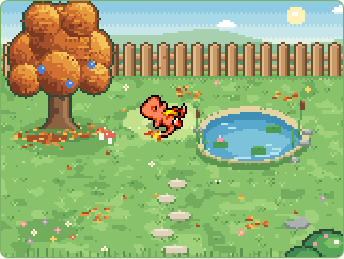
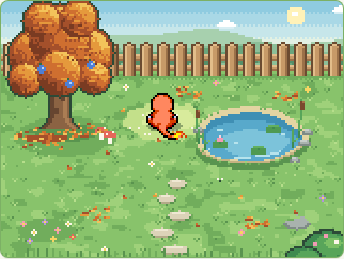
fix: smooth night sky tint and scatter pond glints (v0.6.2)
The dawn/dusk/night sky deepening was a flat band whose edge cut straight across the tree canopy; it now fades row by row. Pond shimmer glints and the moon reflection no longer line up into a stack of bars.

diff --git a/desktop/plugin.js b/desktop/plugin.js
@@ -1,4 +1,4 @@
-// Hermes Pokémon v0.6.1 — bundled sprites: CHUNSOFT and SpriteCollab contributors. See CREDITS.md.
+// Hermes Pokémon v0.6.2 — bundled sprites: CHUNSOFT and SpriteCollab contributors. See CREDITS.md.
 
 // src/plugin.jsx
 import * as sdk from "@hermes/plugin-sdk";
@@ -2230,6 +2230,8 @@ function drawForeground() {
 }
 
 // src/ambient.js
+var inPondPoint = (x, y) => ((x - POND.x) / (POND.rx - 3)) ** 2 + ((y - POND.y) / (POND.ry - 2)) ** 2 <= 1;
+var GLINTS = [[-14, -3, 3, 1.7], [-6, 3, 2, 2.3], [3, -5, 3, 1.4], [10, 2, 2, 2], [-1, 6, 2, 1.1], [14, -1, 2, 2.6]];
 function phaseForHour(hour) {
   if (hour >= 5 && hour < 8) return "dawn";
   if (hour >= 8 && hour < 18) return "day";
@@ -2492,11 +2494,11 @@ var Ambient = class {
         })
       );
     }
-    for (let i = 0; i < 6; i++) {
-      const k = (t * 0.6 + i * 0.37) % 1;
-      const x = Math.round(POND.x - 16 + i * 11 % 30 + k * 4), y = POND.y - 6 + i * 5 % 13;
-      if (Math.sin(t * 2 + i * 1.9) > -0.3) rect(x, y, 3 + i % 2, 1, P.water3);
-    }
+    GLINTS.forEach(([dx, dy, w, speed], i) => {
+      if (Math.sin(t * speed + i * 2.4) < 0.15) return;
+      const x = Math.round(POND.x + dx + Math.sin(t * 0.5 + i) * 1.5), y = POND.y + dy;
+      if (inPondPoint(x, y) && inPondPoint(x + w - 1, y)) rect(x, y, w, 1, P.water3);
+    });
     for (const ripple of this.ripples) {
       if (ripple.age < 0) continue;
       const k = reduced ? 0.5 : ripple.age / 1.6, rx = 2 + k * (ripple.big ? 10 : 6), ry = rx * 0.4;
@@ -2685,8 +2687,14 @@ var Ambient = class {
       rect(131, 3, 5, 9, "#f4f1d8");
       rect(132, 5, 2, 2, "#dcd8bd");
       rect(134, 8, 1, 1, "#dcd8bd");
-      c.globalAlpha = 0.6;
-      for (let i = 0; i < 4; i++) rect(POND.x + 6 - i, POND.y - 4 + i * 2, 4 + i * 2 - (i > 1 ? 4 : 0), 1, "#f4f1d8");
+      const widths = [4, 3, 5, 2, 3, 1];
+      widths.forEach((w, i) => {
+        const y = POND.y - 6 + i * 2;
+        const x = Math.round(129 - w / 2 + (reduced ? 0 : Math.sin(t * 1.3 + i * 1.7) * 0.8));
+        if (!inPondPoint(x, y) || !inPondPoint(x + w - 1, y)) return;
+        c.globalAlpha = 0.5 - i * 0.06;
+        rect(x, y, w, 1, "#f4f1d8");
+      });
       c.globalAlpha = 1;
     }
     if (!grade.glow) return;
@@ -2938,9 +2946,11 @@ function createRenderer(canvas, sprites, species, form = species, visitorSprites
       c.globalCompositeOperation = "multiply";
       c.fillStyle = grade.tint;
       c.fillRect(0, 0, WORLD.width, WORLD.height);
-      c.globalAlpha = 0.55;
       c.fillStyle = grade.sky;
-      c.fillRect(0, 0, WORLD.width, 22);
+      for (let y = 0; y < 30; y++) {
+        c.globalAlpha = 0.55 * (1 - y / 30) ** 1.5;
+        c.fillRect(0, y, WORLD.width, 1);
+      }
       c.globalAlpha = 1;
       c.globalCompositeOperation = "source-over";
     }
@@ -4079,7 +4089,7 @@ function Settings({ record, store, onClose, onChange, pet }) {
           "Pok\xE9mon \xA9 Nintendo / Creatures / GAME FREAK.",
           /* @__PURE__ */ jsx("br", {}),
           "Independent fan project \xB7 v",
-          "0.6.1"
+          "0.6.2"
         ] })
       ]
     }
@@ -4261,7 +4271,7 @@ function App({ store, ctx, bridge }) {
       ] }),
       /* @__PURE__ */ jsxs("span", { className: "hp-version", children: [
         "v",
-        "0.6.1".split(".").slice(0, 2).join(".")
+        "0.6.2".split(".").slice(0, 2).join(".")
       ] })
     ] }),
     /* @__PURE__ */ jsxs("div", { className: "hp-scroll", children: [
@@ -4310,7 +4320,7 @@ var plugin_default = {
   defaultEnabled: true,
   register(ctx) {
     const style = document.createElement("style");
-    style.dataset.hermesPokemon = "0.6.1";
+    style.dataset.hermesPokemon = "0.6.2";
     style.textContent = styles_default;
     document.head.append(style);
     ctx.onDispose(() => style.remove());

diff --git a/src/ambient.js b/src/ambient.js
@@ -4,6 +4,8 @@ import { POND, TREE, SUN_PATCH } from "./world.js";
 // Living garden: everything that moves but isn't the Pokémon. Visual only — it never
 // influences behavior. Also owns short-lived particles requested by behavior events.
 
+const inPondPoint = (x, y) => ((x - POND.x) / (POND.rx - 3)) ** 2 + ((y - POND.y) / (POND.ry - 2)) ** 2 <= 1;
+const GLINTS = [[-14, -3, 3, 1.7], [-6, 3, 2, 2.3], [3, -5, 3, 1.4], [10, 2, 2, 2.0], [-1, 6, 2, 1.1], [14, -1, 2, 2.6]];
 export const PHASES = ["dawn", "day", "dusk", "night"];
 export function phaseForHour(hour) {
   if (hour >= 5 && hour < 8) return "dawn";
@@ -277,13 +279,13 @@ export class Ambient {
         }),
       );
     }
-    // Water shimmer: short highlights that slide and blink.
-    for (let i = 0; i < 6; i++) {
-      const k = (t * 0.6 + i * 0.37) % 1;
-      const x = Math.round(POND.x - 16 + ((i * 11) % 30) + k * 4),
-        y = POND.y - 6 + ((i * 5) % 13);
-      if (Math.sin(t * 2 + i * 1.9) > -0.3) rect(x, y, 3 + (i % 2), 1, P.water3);
-    }
+    // Water shimmer: a few short glints scattered across the water (deliberately not in a line),
+    // each drifting a little and blinking on its own rhythm.
+    GLINTS.forEach(([dx, dy, w, speed], i) => {
+      if (Math.sin(t * speed + i * 2.4) < 0.15) return;
+      const x = Math.round(POND.x + dx + Math.sin(t * 0.5 + i) * 1.5), y = POND.y + dy;
+      if (inPondPoint(x, y) && inPondPoint(x + w - 1, y)) rect(x, y, w, 1, P.water3);
+    });
     for (const ripple of this.ripples) {
       if (ripple.age < 0) continue;
       const k = reduced ? 0.5 : ripple.age / 1.6,
@@ -481,8 +483,15 @@ export class Ambient {
       rect(132, 5, 2, 2, "#dcd8bd");
       rect(134, 8, 1, 1, "#dcd8bd");
       // Moon on the water.
-      c.globalAlpha = 0.6;
-      for (let i = 0; i < 4; i++) rect(POND.x + 6 - i, POND.y - 4 + i * 2, 4 + i * 2 - (i > 1 ? 4 : 0), 1, "#f4f1d8");
+      // Moon on the water: a soft column of short glints under the moon, shimmering gently.
+      const widths = [4, 3, 5, 2, 3, 1];
+      widths.forEach((w, i) => {
+        const y = POND.y - 6 + i * 2;
+        const x = Math.round(129 - w / 2 + (reduced ? 0 : Math.sin(t * 1.3 + i * 1.7) * 0.8));
+        if (!inPondPoint(x, y) || !inPondPoint(x + w - 1, y)) return;
+        c.globalAlpha = 0.5 - i * 0.06;
+        rect(x, y, w, 1, "#f4f1d8");
+      });
       c.globalAlpha = 1;
     }
     if (!grade.glow) return;

diff --git a/src/renderer.js b/src/renderer.js
@@ -225,9 +225,12 @@ export function createRenderer(canvas, sprites, species, form = species, visitor
       c.globalCompositeOperation = "multiply";
       c.fillStyle = grade.tint;
       c.fillRect(0, 0, WORLD.width, WORLD.height);
-      c.globalAlpha = 0.55;
+      // Deepen the sky, fading out row by row so there is no seam across the tree or fence.
       c.fillStyle = grade.sky;
-      c.fillRect(0, 0, WORLD.width, 22);
+      for (let y = 0; y < 30; y++) {
+        c.globalAlpha = 0.55 * (1 - y / 30) ** 1.5;
+        c.fillRect(0, y, WORLD.width, 1);
+      }
       c.globalAlpha = 1;
       c.globalCompositeOperation = "source-over";
     }

diff --git a/docs/RELEASE.md b/docs/RELEASE.md
@@ -1,4 +1,6 @@
-Hermes Pokémon v0.6.1 makes the companion react to the rhythm of your Hermes work and brings the garden to life with seasons, weather and visitors, for Hermes Desktop 0.21.5+.
+Hermes Pokémon v0.6.2 makes the companion react to the rhythm of your Hermes work and brings the garden to life with seasons, weather and visitors, for Hermes Desktop 0.21.5+.
+
+**0.6.2:** fixes two night-time visual glitches: a hard dark line across the top of the tree and sky, and the pond's moon reflection and shimmer lining up into a stack of bars.
 
 **0.6.1:** rain now comes as short showers (3 to 6 minutes, at most three a day, fading in and out) instead of all-day rain, and the companion has more varied movement: eight extra gestures from the same pinned sprite source, no back-to-back repeated routines, and varied pacing.
 
@@ -20,6 +22,6 @@ Install with `hermes plugins install sxuff/hermes-pokemon`, or extract the ZIP's
 
 The release includes a SHA256 file for the ZIP. Runtime uses bundled assets, the documented Desktop SDK and the plugin's own storage. It has no model calls, credentials, backend or runtime network requests.
 
-An independent fan project. Original code is MIT; bundled CHUNSOFT Pokémon sprites and SpriteCollab community contributions retain their respective rights and are excluded from that license. See [CREDITS.md](https://github.com/sxuff/hermes-pokemon/blob/v0.6.1/CREDITS.md). The NousResearch catalog PR remains a draft and is subject to maintainer review.
+An independent fan project. Original code is MIT; bundled CHUNSOFT Pokémon sprites and SpriteCollab community contributions retain their respective rights and are excluded from that license. See [CREDITS.md](https://github.com/sxuff/hermes-pokemon/blob/v0.6.2/CREDITS.md). The NousResearch catalog PR remains a draft and is subject to maintainer review.
 
-Executed checks and native-versus-demo limits are recorded in [docs/VERIFICATION.md](https://github.com/sxuff/hermes-pokemon/blob/v0.6.1/docs/VERIFICATION.md).
+Executed checks and native-versus-demo limits are recorded in [docs/VERIFICATION.md](https://github.com/sxuff/hermes-pokemon/blob/v0.6.2/docs/VERIFICATION.md).

diff --git a/README.md b/README.md
@@ -1,4 +1,4 @@
-# Hermes Pokémon · 0.6.1
+# Hermes Pokémon · 0.6.2
 
 A small pixel-art garden beside your Hermes conversation. Choose Bulbasaur, Charmander, or Squirtle, give it a nickname, and spend a little time together.
 
@@ -115,7 +115,7 @@ npm run demo
 
 Open [the local preview](http://127.0.0.1:4173). It loads the **actual built plugin** with a simulated SDK and explicitly labeled simulated events, including a simulated return to preview the welcome, a **Long turn** (the preview clock jumps three minutes into a running turn) and a **Failed turn**, simulated **Web search**, **Terminal** and **Writing files** tool calls, and a **Wild visitor**. Seasons and weather can be pinned from Settings. Its localStorage is separate from Hermes plugin storage. Resize the pane, dock it beneath, switch themes, hide it, or reload it. `npm run install:plugin` installs the build into your local Hermes plugin directory, backing up an existing `plugin.js` first.
 
-`npm run build` updates the committed `desktop/plugin.js` and the disk-install folder. `npm run package` verifies the bundle checksum and creates `release/hermes-pokemon-0.6.1.zip` with a matching `.sha256` file. The package uses `plugin.yaml` + `desktop/plugin.js`; source structure, storage and release details are in [docs/SDK.md](docs/SDK.md).
+`npm run build` updates the committed `desktop/plugin.js` and the disk-install folder. `npm run package` verifies the bundle checksum and creates `release/hermes-pokemon-0.6.2.zip` with a matching `.sha256` file. The package uses `plugin.yaml` + `desktop/plugin.js`; source structure, storage and release details are in [docs/SDK.md](docs/SDK.md).
 
 ## Hermes awareness & compatibility
 

diff --git a/docs/VERIFICATION.md b/docs/VERIFICATION.md
@@ -1,5 +1,12 @@
 # Verification
 
+## 0.6.2 (2026-10-06)
+
+Native user report: a line above the fence and across the tree, and three odd bars on the pond, at night.
+- **Line:** the dawn/dusk/night sky deepening was a flat band over rows 0 to 21 drawn after the tree, so its bottom edge cut straight across the canopy. It is now a row-by-row fade over rows 0 to 29. Before and after night captures: the seam across the tree is gone, and tree brightness now changes smoothly from row to row.
+- **Pond:** six shimmer glints were laid out on a fixed stagger, and they lined up with the moon reflection into a staircase of bars. Glints are now scattered, clipped to the water and blink independently, and the moon reflection is a short, softer column under the moon. Captures read as scattered glints.
+- `npm test`: 189 passed. Browser: all 7 scripts pass.
+
 ## 0.6.1 (2026-10-06)
 
 Feedback after first use: all-day rain was too much and movement felt repetitive.
